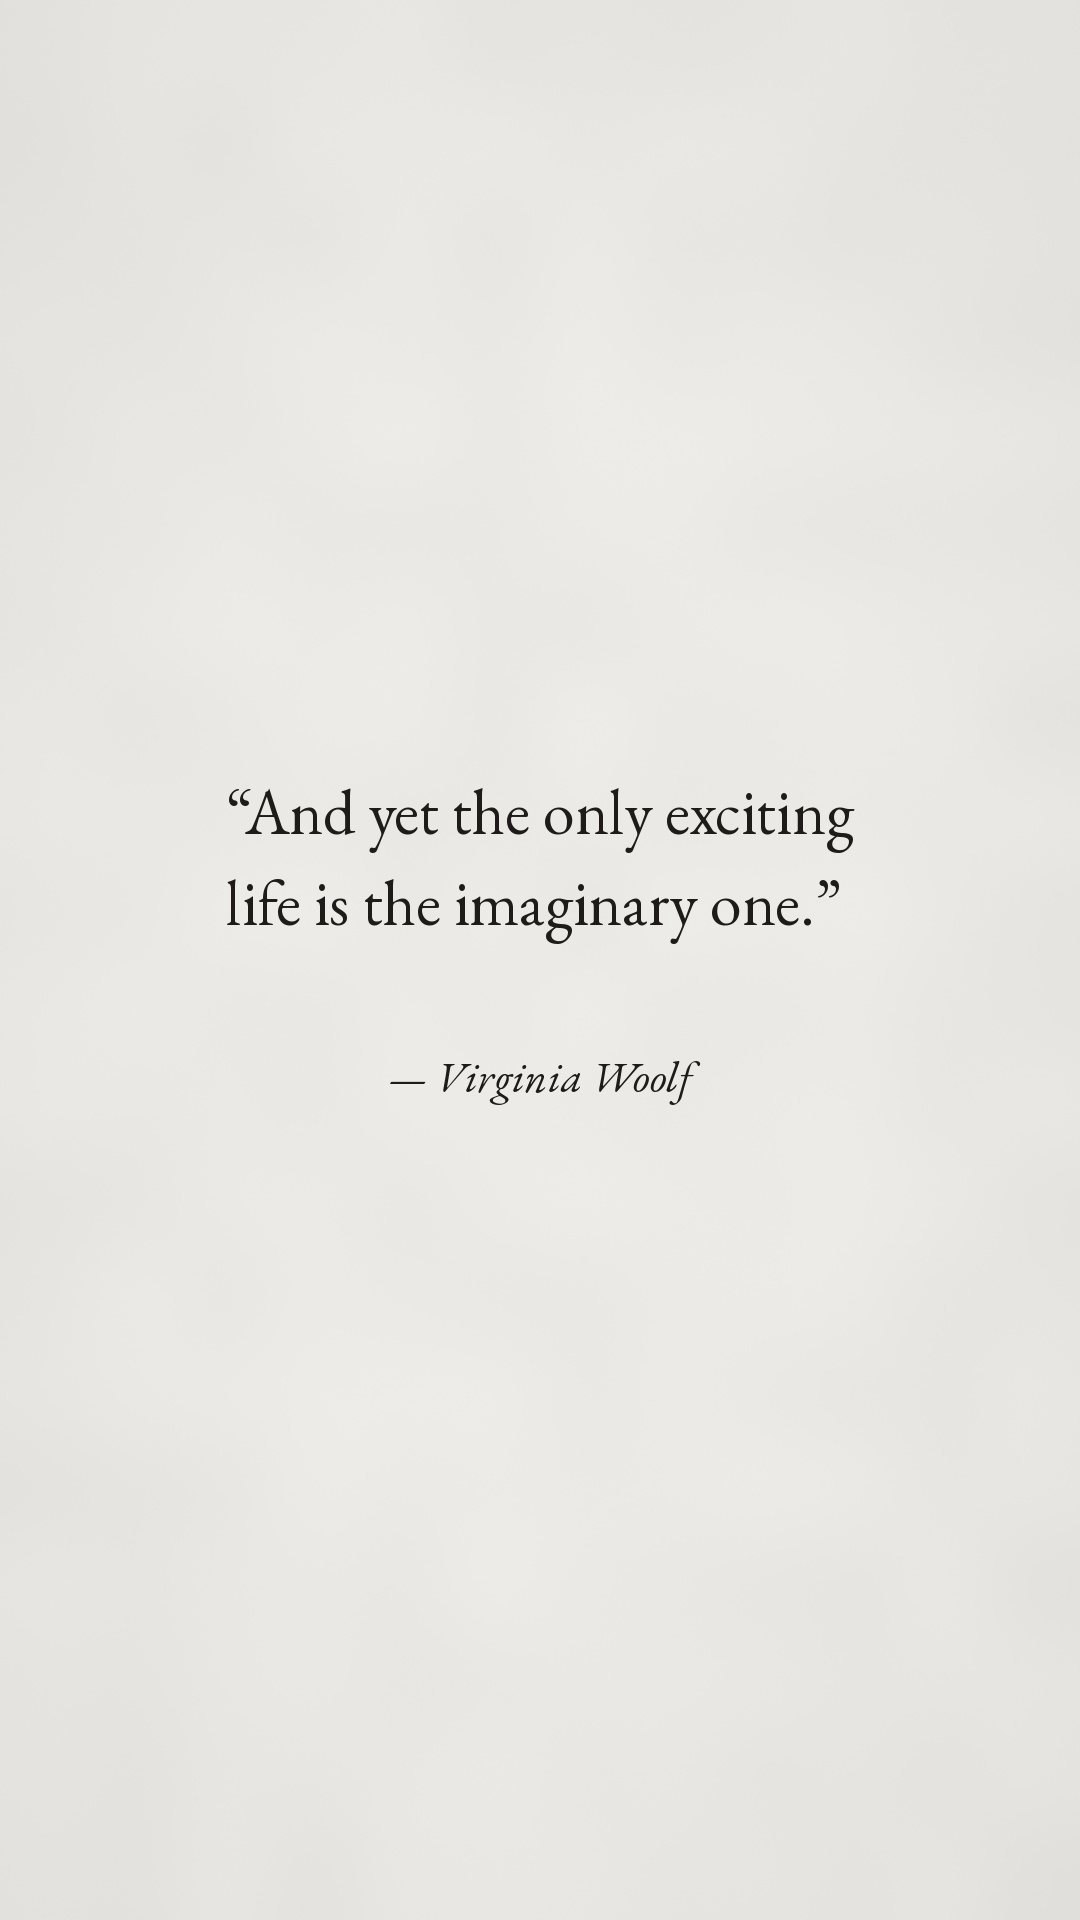
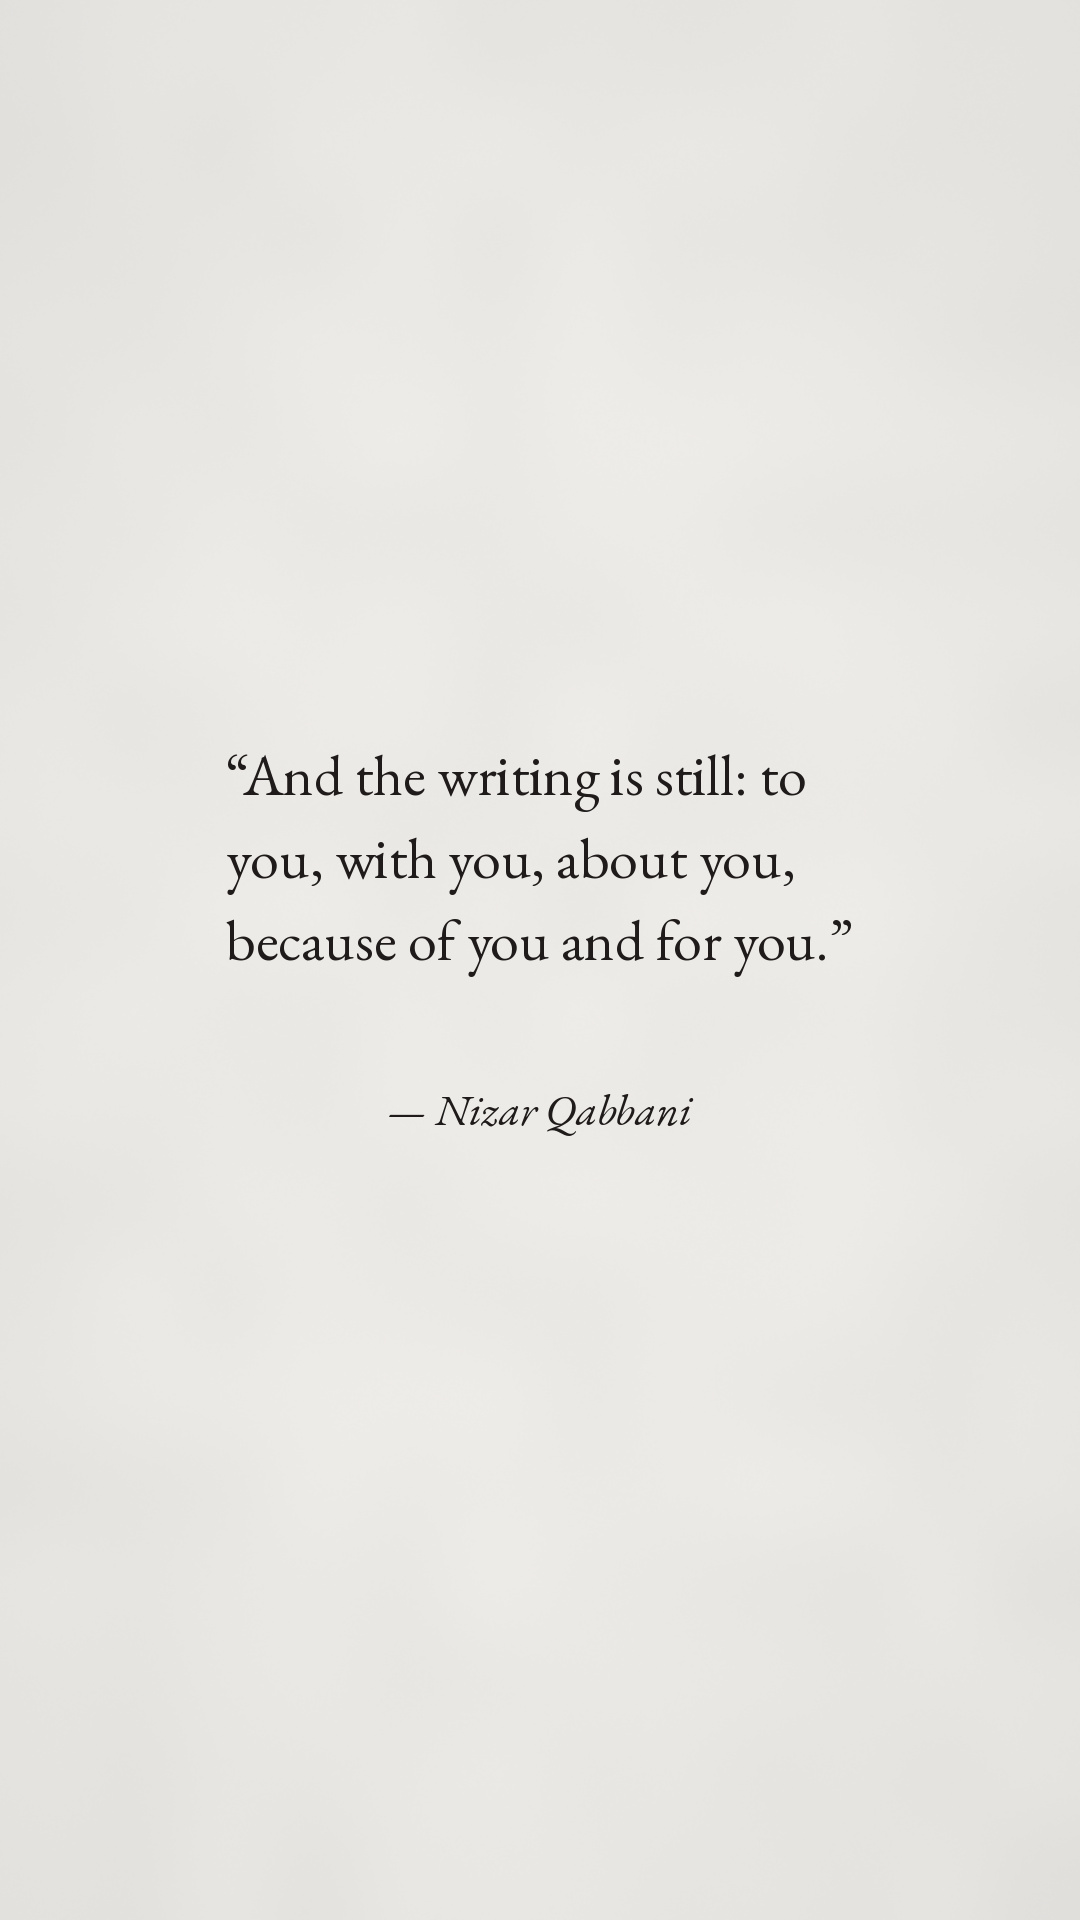
Softer quote carousel: new title, drop harshest quote
Claude-Session: https://claude.ai/code/session_01TEPoeibTiyEA4gh1xGdRLD

Changed region(s): [[0.2139, 0.375, 0.7944, 0.5], [0.3972, 0.5625, 0.6417, 0.5938]]

diff --git a/edit/tools/quotes.py b/edit/tools/quotes.py
@@ -13,25 +13,23 @@ INK_SOFT = (52, 47, 44)
 
 Q = {
  'en': [
-  ('title', 'quotes for the ones\nwho feel unseen', None),
-  ('q', '“… it’s awful not to be loved. It’s the worst thing in the world … It makes you mean, and violent, and cruel.”', 'John Steinbeck, East of Eden'),
-  ('q', '“I had to go through a time of isolation in order to come to terms with who and what I was.”', 'James Baldwin, The Art of Fiction'),
-  ('q', '“How many years does it take to forget a minute.”', 'Anonymous'),
-  ('q', '“And yet the only exciting life is the imaginary one.”', 'Virginia Woolf'),
-  ('q', '“But once in a while the odd thing happens. Once in a while the dream comes true, and the whole pattern of life is altered. Once in a while the moon turns blue.”', 'W. H. Auden'),
-  ('q', '“And the writing is still: to you, with you, about you, because of you and for you.”', 'Nizar Qabbani'),
-  ('q', '“What is done in love is done well.”', 'Vincent van Gogh'),
+  ('title', 'quotes to\nread slowly', None),
+  ('q', '\u201cI had to go through a time of isolation in order to come to terms with who and what I was.\u201d', 'James Baldwin, The Art of Fiction'),
+  ('q', '\u201cHow many years does it take to forget a minute.\u201d', 'Anonymous'),
+  ('q', '\u201cAnd yet the only exciting life is the imaginary one.\u201d', 'Virginia Woolf'),
+  ('q', '\u201cAnd the writing is still: to you, with you, about you, because of you and for you.\u201d', 'Nizar Qabbani'),
+  ('q', '\u201cBut once in a while the odd thing happens. Once in a while the dream comes true, and the whole pattern of life is altered. Once in a while the moon turns blue.\u201d', 'W. H. Auden'),
+  ('q', '\u201cWhat is done in love is done well.\u201d', 'Vincent van Gogh'),
   ('end', 'to seek the unseen.', None),
  ],
  'es': [
-  ('title', 'frases para quien\nse siente invisible', None),
-  ('q', '“… es horrible no ser amado. Es lo peor del mundo … Te vuelve mezquino, y violento, y cruel.”', 'John Steinbeck, Al este del Edén'),
-  ('q', '“Tuve que atravesar un tiempo de aislamiento para llegar a aceptar quién y qué era yo.”', 'James Baldwin, The Art of Fiction'),
-  ('q', '“¿Cuántos años hacen falta para olvidar un minuto?”', 'Anónimo'),
-  ('q', '“Y, sin embargo, la única vida emocionante es la imaginaria.”', 'Virginia Woolf'),
-  ('q', '“Pero de vez en cuando ocurre lo extraño. De vez en cuando el sueño se cumple, y todo el dibujo de la vida cambia. De vez en cuando la luna se vuelve azul.”', 'W. H. Auden'),
-  ('q', '“Y la escritura sigue siendo: a ti, contigo, sobre ti, por ti y para ti.”', 'Nizar Qabbani'),
-  ('q', '“Lo que se hace con amor, está bien hecho.”', 'Vincent van Gogh'),
+  ('title', 'frases para\nleer despacio', None),
+  ('q', '\u201cTuve que atravesar un tiempo de aislamiento para llegar a aceptar qui\u00e9n y qu\u00e9 era yo.\u201d', 'James Baldwin, The Art of Fiction'),
+  ('q', '\u201c\u00bfCu\u00e1ntos a\u00f1os hacen falta para olvidar un minuto?\u201d', 'An\u00f3nimo'),
+  ('q', '\u201cY, sin embargo, la \u00fanica vida emocionante es la imaginaria.\u201d', 'Virginia Woolf'),
+  ('q', '\u201cY la escritura sigue siendo: a ti, contigo, sobre ti, por ti y para ti.\u201d', 'Nizar Qabbani'),
+  ('q', '\u201cPero de vez en cuando ocurre lo extra\u00f1o. De vez en cuando el sue\u00f1o se cumple, y todo el dibujo de la vida cambia. De vez en cuando la luna se vuelve azul.\u201d', 'W. H. Auden'),
+  ('q', '\u201cLo que se hace con amor, est\u00e1 bien hecho.\u201d', 'Vincent van Gogh'),
   ('end', 'to seek the unseen.', None),
  ],
 }
